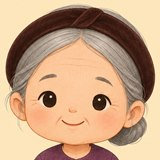
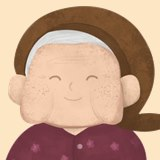
Use the team's character drawings in the Nhân vật popup
- Tuấn Anh, Bà Ngoại, Bé Mai and Cô Tư now use the new drawings from the shared
  Drive folder (white background removed, 400px PNG); head avatars re-cropped.
- The sixth character becomes Chú Ba (new "chú" drawing) instead of Chú Tễu,
  still locked behind the Tết event.
- Transparent PNG characters skip the darken blend so their colours stay true;
  the AI images with cream backgrounds keep it.
- Remove the replaced AI images (char-ba/char-co-tu/char-teu jpg, av-teu).

diff --git a/index.html b/index.html
@@ -330,6 +330,7 @@ svg.i{fill:none;stroke:var(--cream);stroke-width:2.4;stroke-linecap:round;stroke
 .cwrap,.buy{display:flex;gap:22px;align-items:center;text-align:left}
 .cart,.bart{position:relative;isolation:isolate;flex:none;border-radius:22px;background:var(--cream-2);box-shadow:inset 0 0 0 2px var(--tile-line);overflow:hidden}
 .cart{width:196px;height:250px}.cart i{position:absolute;left:8px;top:35px;width:180px;height:180px;opacity:.45;filter:blur(7px);mix-blend-mode:darken}
+.spot .fig.png,.ccard .art i.png,.cart i.png{mix-blend-mode:normal} /* transparent PNG characters need no blend */
 .bart{width:190px;height:190px}.bart i{position:absolute;left:7px;top:7px;width:176px;height:176px;mix-blend-mode:darken}
 .ci,.bi{flex:1;min-width:0;display:flex;flex-direction:column;gap:8px}
 .bt{font-family:var(--display);font-weight:800;font-size:30px;line-height:32px;color:var(--ink)}
@@ -680,15 +681,15 @@ function profile(tab){
    so a character or item unlocks by itself once the player has done enough. */
 const lc=s=>s.charAt(0).toLowerCase()+s.slice(1);
 const CHARS=[
- {k:'boy',n:'Tuấn Anh',img:KIDB,av:'assets/av-me.png?v=2',desc:'Cậu bé tinh nghịch, mê Ô Ăn Quan và thả diều.'},
- {k:'ba',n:'Bà Ngoại',img:'assets/char-ba.jpg',av:'assets/av-ba.jpg',desc:'Bà hiền hậu ở Nhà Ngoại, thuộc lòng mọi trò chơi dân gian.'},
- {k:'mai',n:'Bé Mai',img:KIDG,av:'assets/av-mai.jpg',lockSub:'Thắng Mai 3 ván',cta:'oq',desc:'Cô bé hàng xóm, cao thủ Ô Ăn Quan. Thắng Mai để rủ bạn ấy về đội mình.',
+ {k:'boy',n:'Tuấn Anh',img:'assets/char-tuan-anh.png',av:'assets/av-me.png?v=2',desc:'Cậu bé tinh nghịch, mê Ô Ăn Quan và thả diều.'},
+ {k:'ba',n:'Bà Ngoại',img:'assets/char-ba.png',av:'assets/av-ba.jpg?v=2',desc:'Bà hiền hậu ở Nhà Ngoại, thuộc lòng mọi trò chơi dân gian.'},
+ {k:'mai',n:'Bé Mai',img:'assets/char-mai.png',av:'assets/av-mai.jpg?v=2',lockSub:'Thắng Mai 3 ván',cta:'oq',desc:'Cô bé hàng xóm, cao thủ Ô Ăn Quan. Thắng Mai để rủ bạn ấy về đội mình.',
   conds:()=>[['Thắng Mai 3 ván Ô Ăn Quan',S.stats.oq.wins,3,'ván'],['Đạt Cấp 2',lvInfo().lv,2,'cấp']]},
  {k:'ong',n:'Ông Ngoại',img:'assets/char-ong.jpg',av:'assets/av-ong.jpg',lockSub:'Đạt Cấp 5',cta:'oq',desc:'Ông hay kể chuyện cổ tích bên hiên Nhà Ngoại.',
   conds:()=>[['Đạt Cấp 5',lvInfo().lv,5,'cấp'],['Thắng 5 ván Ô Ăn Quan',S.stats.oq.wins,5,'ván']]},
- {k:'co',n:'Cô Tư',img:'assets/char-co-tu.jpg',av:'assets/av-co-tu.jpg',lockSub:'Điểm danh 7 lần',cta:'ci',desc:'Cô bán bánh ở Chợ, luôn để dành quà cho bạn nhỏ chăm chỉ.',
+ {k:'co',n:'Cô Tư',img:'assets/char-co-tu.png',av:'assets/av-co-tu.jpg?v=2',lockSub:'Điểm danh 7 lần',cta:'ci',desc:'Cô bán bánh ở Chợ, luôn để dành quà cho bạn nhỏ chăm chỉ.',
   conds:()=>[['Điểm danh 7 lần',S.ciCount,7,'lần'],['Trúng 3 ván Bầu Cua',S.stats.bc.wins,3,'ván']]},
- {k:'teu',n:'Chú Tễu',img:'assets/char-teu.jpg',av:'assets/av-teu.jpg',lockSub:'Sự kiện Tết',event:1,desc:'Chú Tễu múa rối nước chỉ xuất hiện trong dịp Tết. Hẹn gặp bạn khi sự kiện mở!',
+ {k:'chu',n:'Chú Ba',img:'assets/char-chu-ba.png',av:'assets/av-chu-ba.jpg',lockSub:'Sự kiện Tết',event:1,desc:'Chú Ba đi làm ăn xa, chỉ về quê dịp Tết. Hẹn gặp chú khi sự kiện Tết mở!',
   conds:()=>[['Tham gia sự kiện Tết 2027',0,1,'Chưa mở'],['Trúng 3 ván Bầu Cua dịp Tết',0,3,'ván']]}];
 const met=o=>!!o.conds&&!o.event&&o.conds().every(([,a,n])=>a>=n);
 const unlocked=c=>!c.conds||met(c);
@@ -737,7 +738,8 @@ const worn=s=>ITEMS.find(i=>i.k===S.outfit[s]);
 const condVal=([,a,n,u])=>u==='Chưa mở'?'Chưa mở':a>=n?'Đã xong':u==='cấp'?`Cấp ${a}/${n}`:`${a}/${n} ${u}`;
 const CTA={oq:['Chơi Ô Ăn Quan',oqMenu],bc:['Chơi Bầu Cua',bcLobby],ci:['Điểm danh',lixiModal],iv:['Mời bạn',()=>inviteModal()]};
 const stageHTML=(fig,name,tag,tagCls,desc,btn)=>`<div class="stagep"><div class="spot">${fig}</div><h3>${name}</h3><span class="tagp ${tagCls}">${tag}</span><p class="p">${desc}</p>${btn}</div>`;
-const tileHTML=(o,cls,sub,badge,attr)=>`<button class="ccard ${cls}" ${attr}><span class="art"><i style="${artBg(o,112)}"></i>${cls==='lock'?`<span class="lk">${I('lock')}</span>`:''}</span><b>${o.n}</b>${sub}${badge?`<em class="badge">${I('check')}${badge}</em>`:''}</button>`;
+const pngC=o=>o.img&&/\.png$/.test(o.img)?'png':'';
+const tileHTML=(o,cls,sub,badge,attr)=>`<button class="ccard ${cls}" ${attr}><span class="art"><i class="${pngC(o)}" style="${artBg(o,112)}"></i>${cls==='lock'?`<span class="lk">${I('lock')}</span>`:''}</span><b>${o.n}</b>${sub}${badge?`<em class="badge">${I('check')}${badge}</em>`:''}</button>`;
 
 function charModal(tab='nv',slot='ao'){
   const b=h('<div class="cm"></div>');const m=modal('Nhân vật',1100,b);
@@ -746,7 +748,7 @@ function charModal(tab='nv',slot='ao'){
     let stg,side;
     if(tab==='nv'){
       const c=CHARS.find(x=>x.k===selC)||CHARS[0],using=meChar().k===c.k;
-      stg=stageHTML(`<i class="fig" style="left:46px;width:208px;height:208px;${artBg(c)}"></i>`,c.n,(c.k==='boy'?'Mặc định':'Đã mở khóa')+(using?' · Đang dùng':''),'',c.desc,
+      stg=stageHTML(`<i class="fig ${pngC(c)}" style="left:46px;width:208px;height:208px;${artBg(c)}"></i>`,c.n,(c.k==='boy'?'Mặc định':'Đã mở khóa')+(using?' · Đang dùng':''),'',c.desc,
         using?'<button class="btn off" disabled style="width:260px;height:52px">Đang dùng</button>':'<button class="btn orange" id="use" style="width:260px;height:52px">Dùng nhân vật này</button>');
       const card=x=>{const u=unlocked(x),inUse=meChar().k===x.k;
         return tileHTML(x,!u?'lock':(inUse||selC===x.k)?'sel':'',`<span class="sub ${u?'':'bad'}">${u?(x.k==='boy'?'Mặc định':'Đã mở khóa'):x.lockSub}</span>`,inUse?'Đang dùng':'',`data-c="${x.k}" aria-label="${x.n}${u?'':', chưa mở khóa'}"`)};
@@ -797,7 +799,7 @@ function charModal(tab='nv',slot='ao'){
 }
 function condModal(o){
   const vp=o.s==='vp',cs=o.conds(),cta=o.event?null:CTA[o.cta];
-  const b=h(`<div class="cwrap"><span class="cart"><i style="${artBg(o,180)}"></i><span class="lk big">${I('lock')}</span></span><div class="ci">
+  const b=h(`<div class="cwrap"><span class="cart"><i class="${pngC(o)}" style="${artBg(o,180)}"></i><span class="lk big">${I('lock')}</span></span><div class="ci">
     <div class="bt">${o.n}</div><p class="p">${o.desc}</p><div class="lab">${vp?'Cách thu thập':'Điều kiện mở khóa'}</div>
     ${cs.map(c=>{const ok=c[3]!=='Chưa mở'&&c[1]>=c[2];return `<div class="cond"><div class="hd"><span>${c[0]}</span><span class="v ${ok?'ok':''}">${condVal(c)}</span></div><div class="prog"><i class="${ok?'ok':''}" style="width:${c[3]==='Chưa mở'?0:Math.min(100,c[1]/c[2]*100)}%"></i></div></div>`}).join('')}
     <div class="acts">${cta?`<button class="btn cream sm" id="no">Để sau</button><button class="btn orange sm" id="go">${cta[0]}</button>`:'<button class="btn brown sm" id="no">Đã hiểu</button>'}</div></div></div>`);

diff --git a/README.md b/README.md
@@ -7,7 +7,7 @@ Web game with two Vietnamese folk games, playable right in the browser (landscap
 
 From the home screen (bottom-left buttons):
 
-- **Nhân vật**: pick the character you play as (Tuấn Anh, Bà Ngoại, plus Bé Mai, Ông Ngoại, Cô Tư unlocked by playing; Chú Tễu comes with a Tết event). Locked characters show their unlock conditions and progress.
+- **Nhân vật**: pick the character you play as (Tuấn Anh, Bà Ngoại, plus Bé Mai, Ông Ngoại, Cô Tư unlocked by playing; Chú Ba comes with a Tết event). Locked characters show their unlock conditions and progress.
 - **Tủ đồ**: dress Tuấn Anh in Quần / Áo / Kính / Dép, buy items with lì xì, and collect the 6-piece *Đồ chơi dân gian* set by playing (finish it for +10 lì xì).
 - **Túi lì xì**: current balance, what came in and went out today, and the full history with filters (Tất cả / Nhận / Đã dùng).
 
@@ -26,4 +26,4 @@ npx serve .
 Settings → Pages → Source: *Deploy from a branch* → `main` / `(root)` → Save.
 After about 1 minute the game is live at `https://<username>.github.io/<repo-name>/`.
 
-The images in `assets/` are taken from the project's Canva designs and the Figma file; the character, wardrobe and lì xì art (`char-*`, `av-*` except `av-me`, `sheet-*`, `outfits.jpg`, `ic-li-xi.jpg`) was generated with Figma AI.
+The images in `assets/` are taken from the project's Canva designs and the Figma file; the characters in the Nhân vật popup (`char-tuan-anh`, `char-ba`, `char-mai`, `char-co-tu`, `char-chu-ba` and their `av-*` avatars) are the team's own drawings with the white background removed; `char-ong`, `av-ong`, `sheet-*`, `outfits.jpg` and `ic-li-xi.jpg` were generated with Figma AI.
